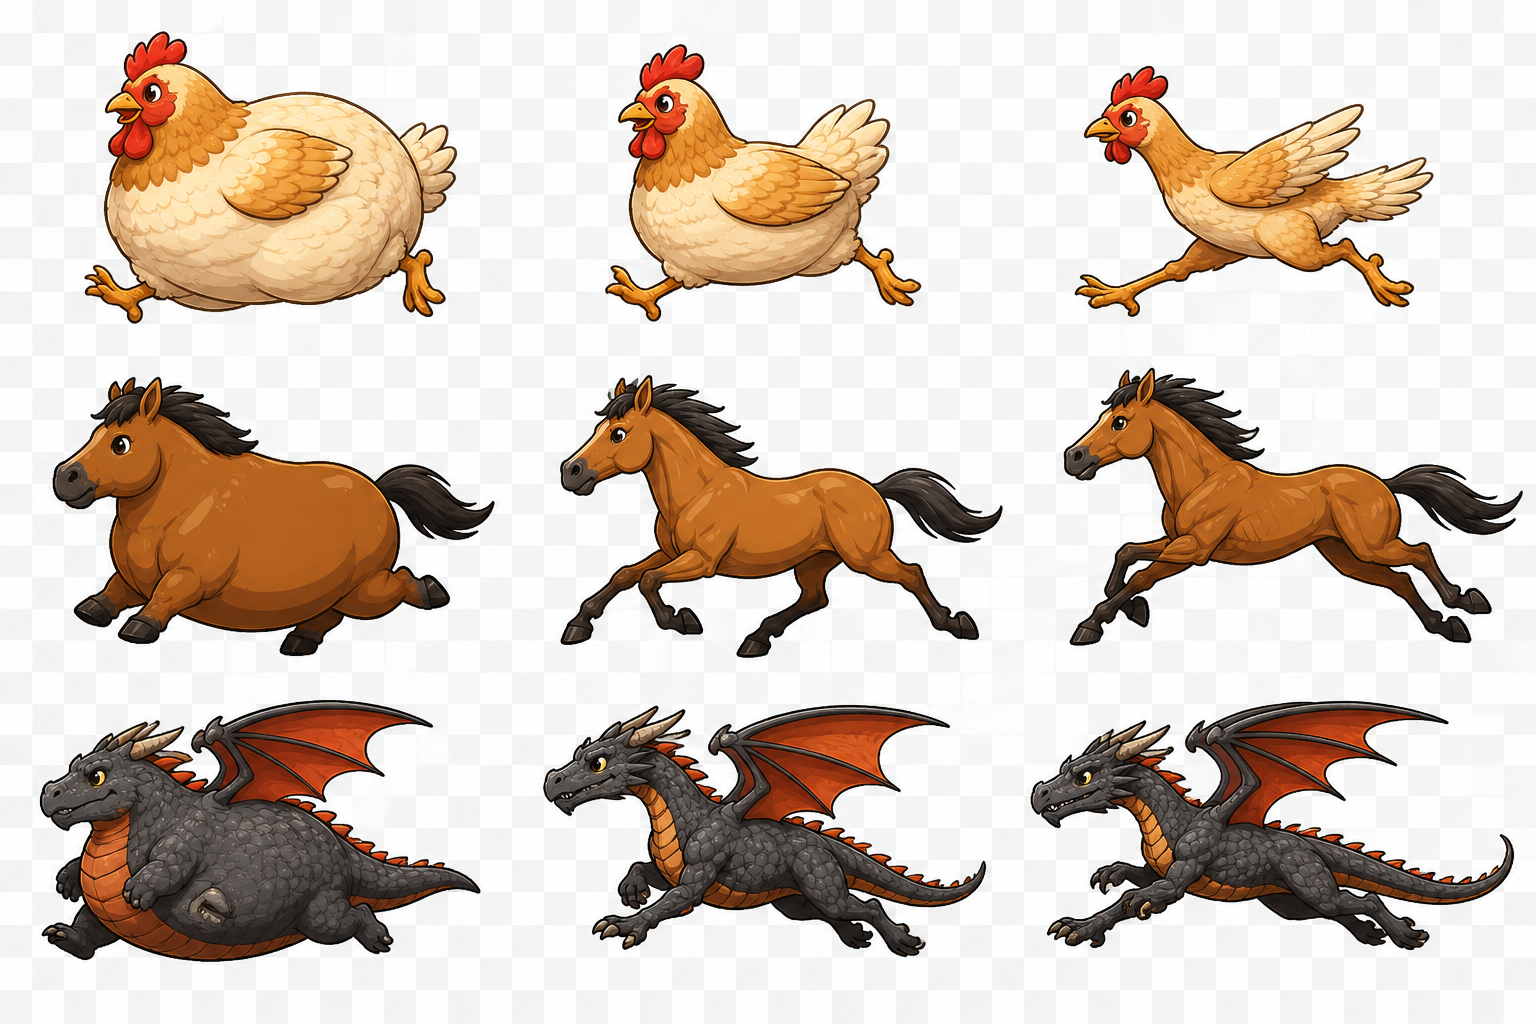
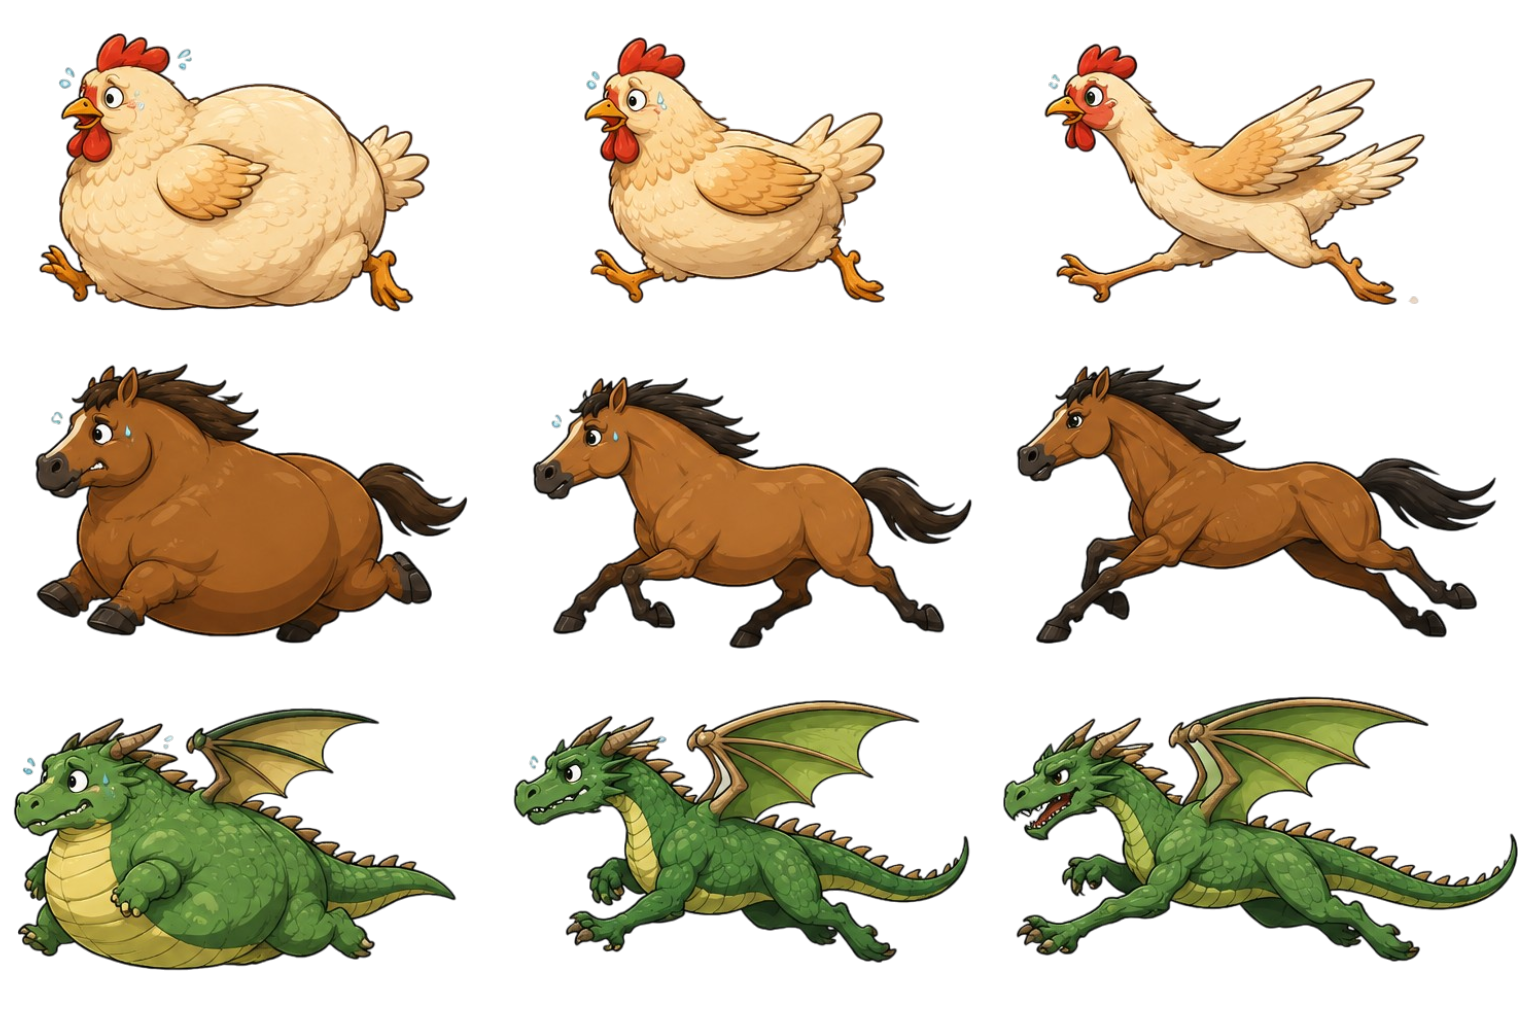
Experimental upload for using external resource for image

diff --git a/index.html b/index.html
@@ -173,7 +173,7 @@
     .racer-anim.hold { animation: raceHold 2s ease-in-out infinite alternate; }
     @keyframes raceRun  { from { transform: translateY(0);    } to { transform: translateY(-9px); } }
     @keyframes raceHold { from { transform: translateY(-5px); } to { transform: translateY(5px);  } }
-    .racer-sprite { width: 130px; height: 104px; background-image: url('animals.png'); background-size: 300% 300%; background-repeat: no-repeat; background-color: transparent; image-rendering: auto; flex-shrink: 0; transform: scaleX(-1); filter: invert(1) hue-rotate(180deg); mix-blend-mode: screen; }
+    .racer-sprite { width: 130px; height: 104px; background-image: url('animals.png'); background-size: 300% 300%; background-repeat: no-repeat; background-color: transparent; image-rendering: auto; flex-shrink: 0; transform: scaleX(-1); }
     .race-finish-icon { position: absolute; right: 10px; top: 50%; transform: translateY(-50%); font-size: 2rem; pointer-events: none; }
     .race-lane-bottom { display: flex; justify-content: space-between; align-items: center; margin-top: .7rem; font-size: .78rem; flex-wrap: wrap; gap: .3rem; }
     .race-pct-label  { font-weight: 800; }